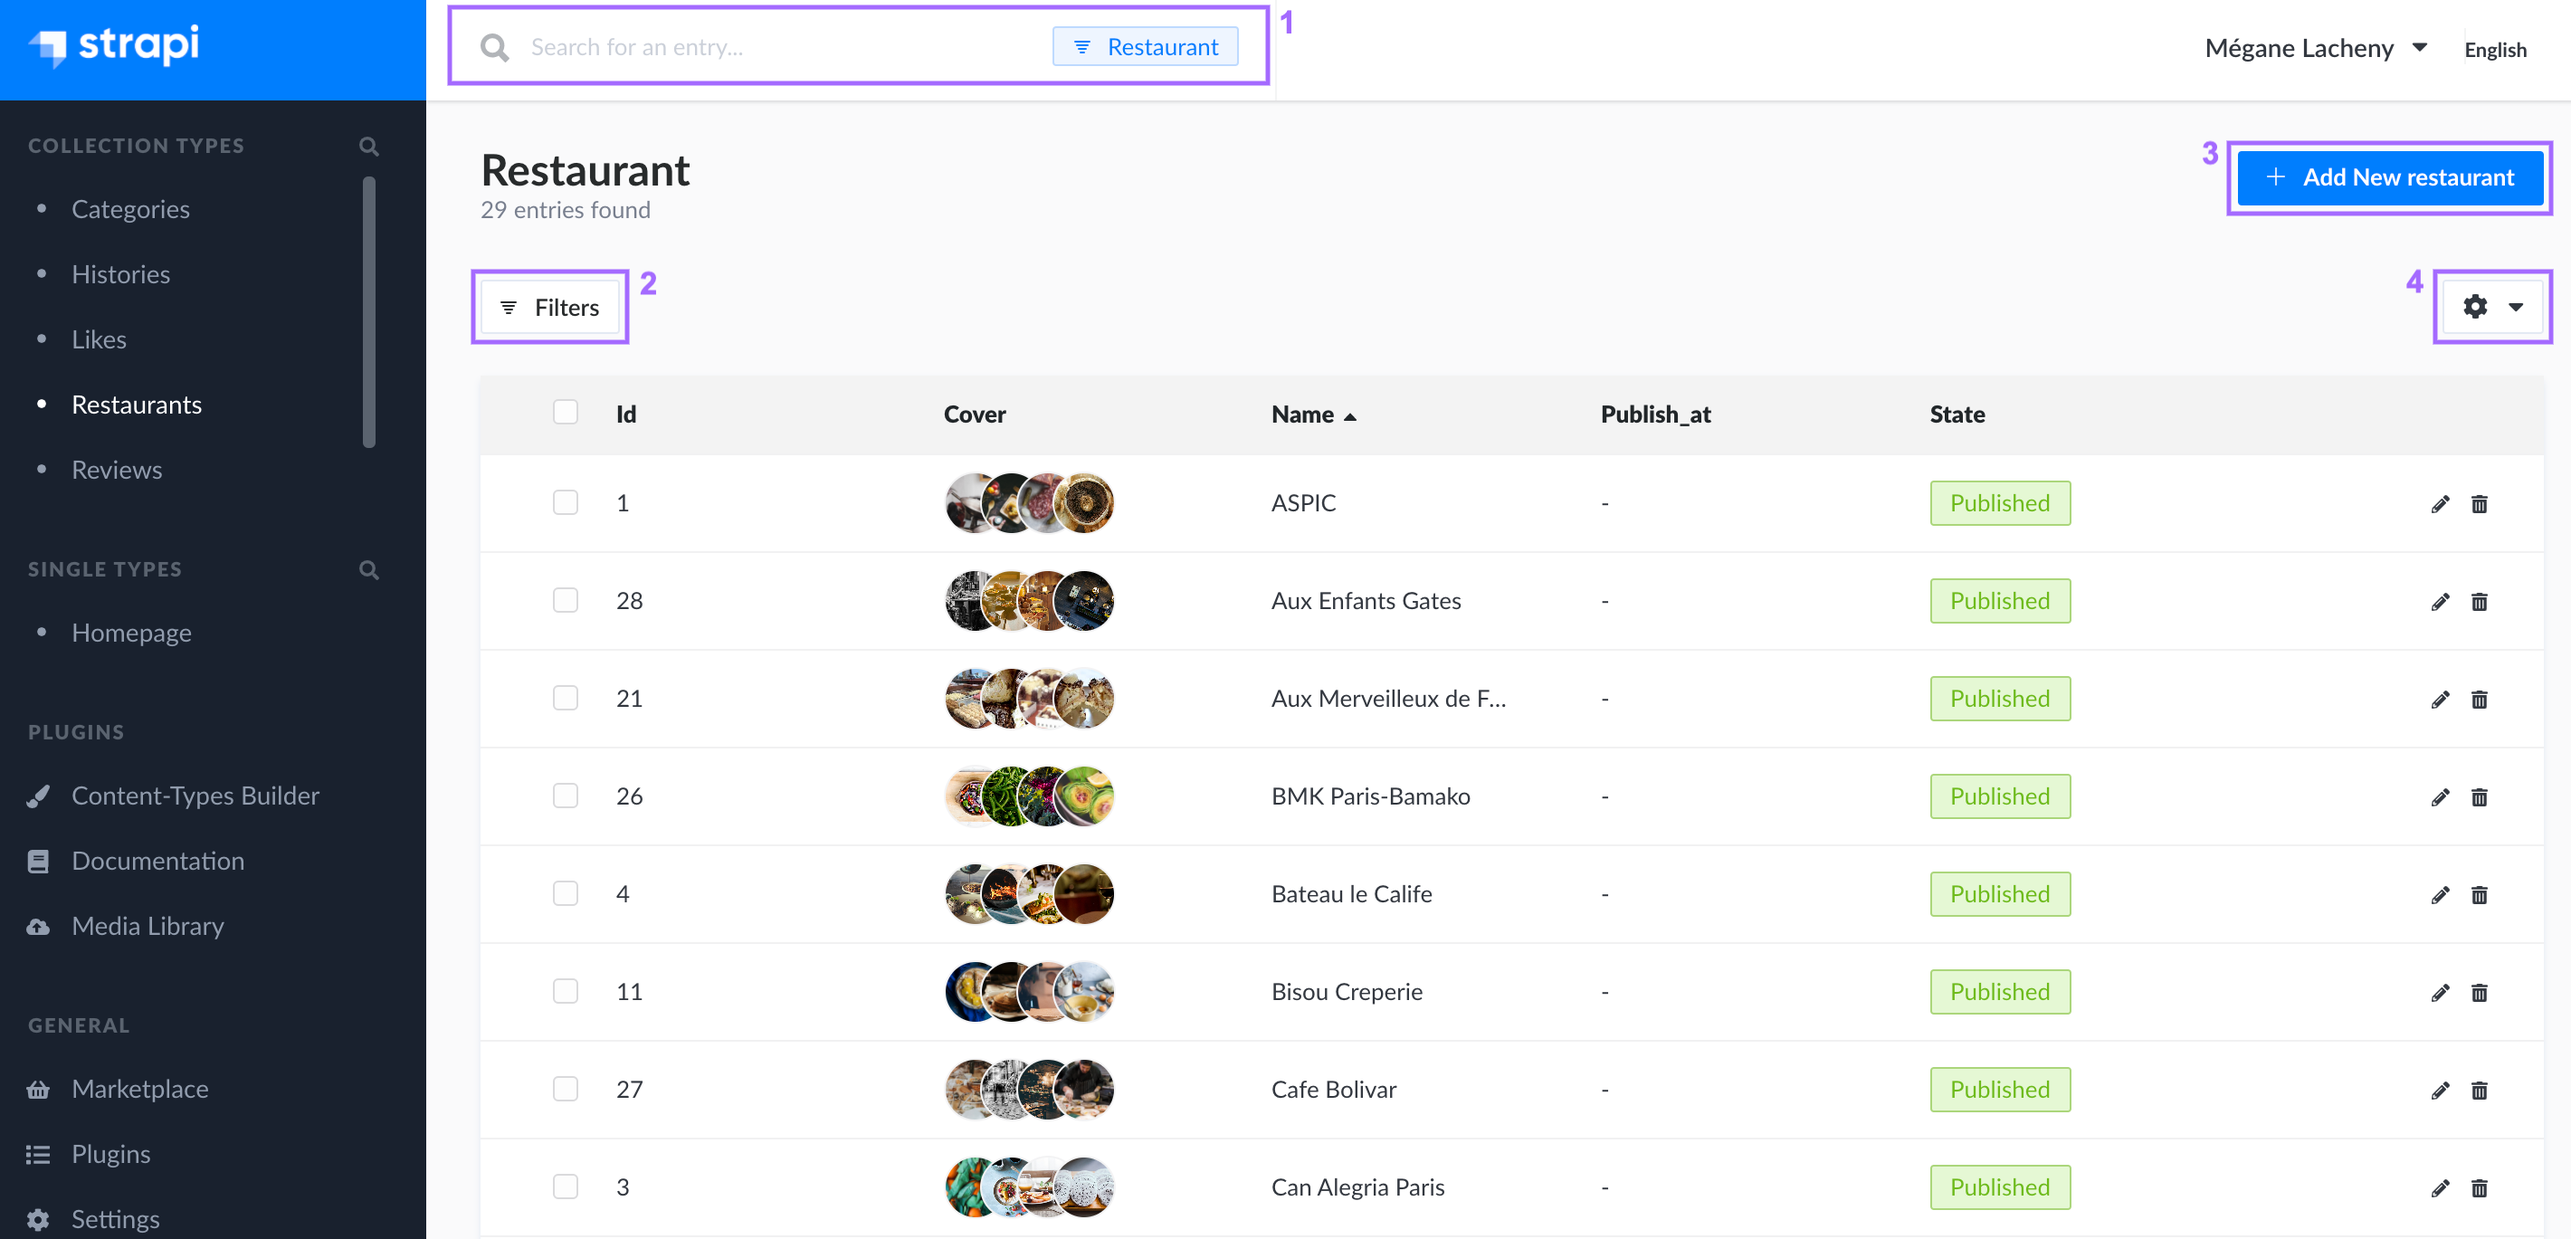
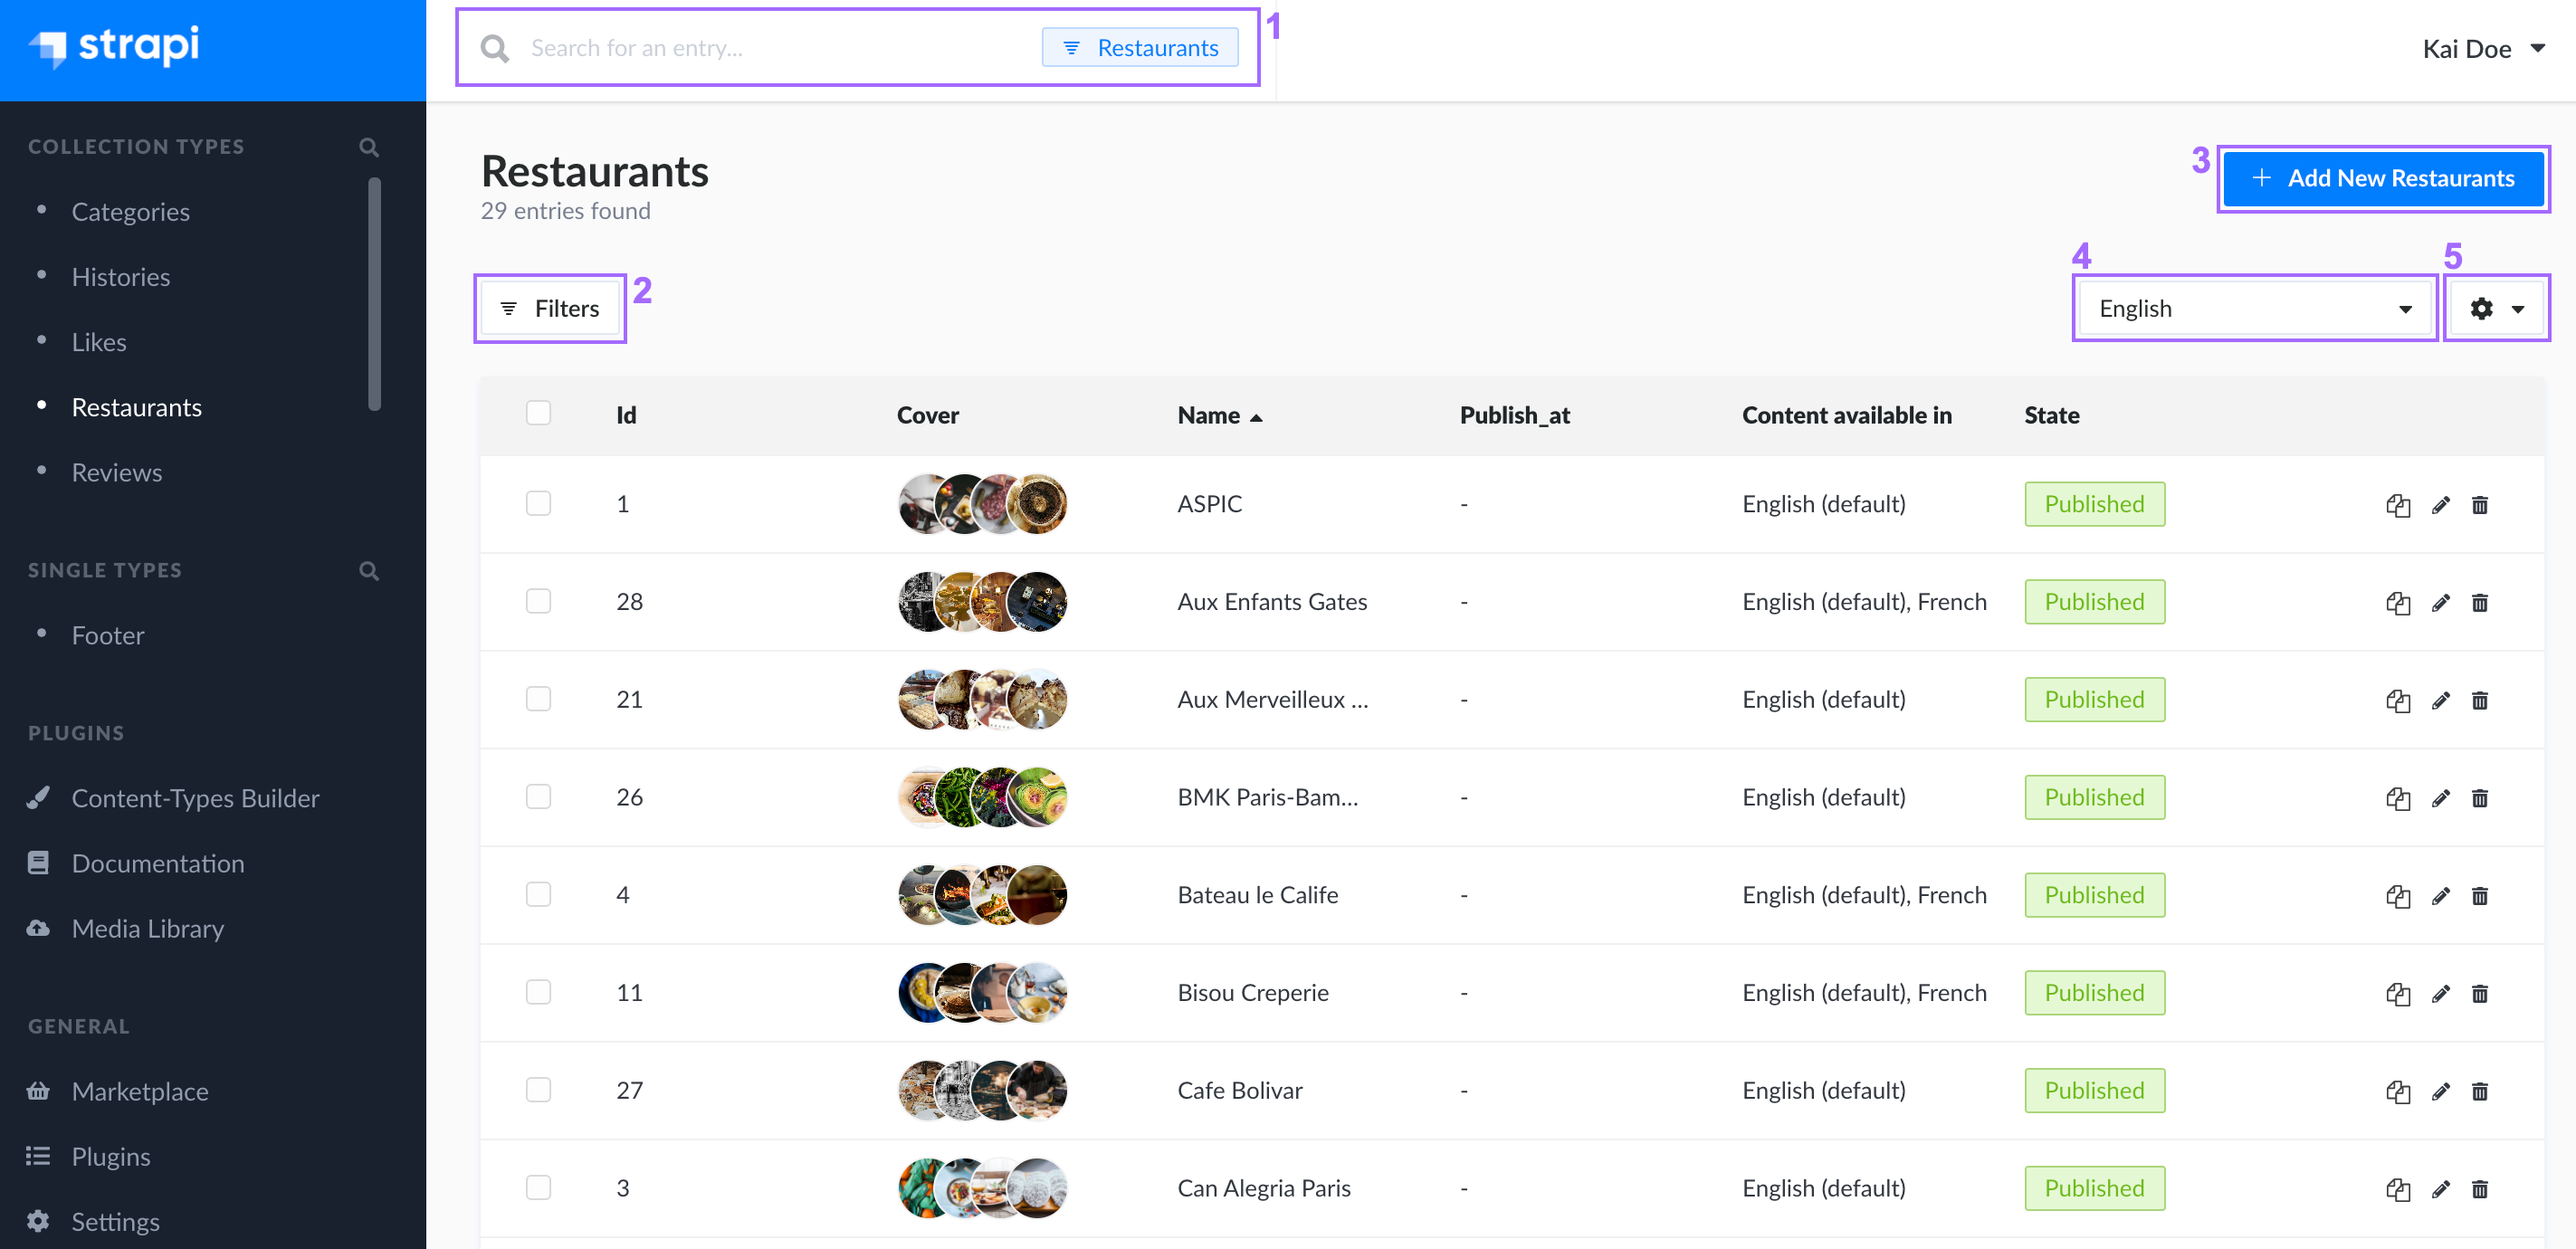
Update and add screenshots for i18n plugin

diff --git a/docs/user-docs/latest/settings/managing-global-settings.md b/docs/user-docs/latest/settings/managing-global-settings.md
@@ -27,6 +27,8 @@ To configure the SSO feature settings:
 
 The [Internationalization plugin](/user-docs/latest/plugins/strapi-plugins.md#internationalization-plugin) allows to manage content in different languages, called "locales". Once the Internationalization plugin is installed in a Strapi application (see [Installing plugins via the Marketplace](../plugins/installing-plugins-via-marketplace.md)), administrators can manage locales from the *Global settings > Internationalization* sub-section of the settings interface.
 
+![i18n settings](../assets/settings/settings-i18n.png)
+
 The *Internationalization* settings sub-section displays a table listing all locales available for the Strapi application. By default, only the English locale is configured and set as the default locale. 
 
 For each locale, the table displays the default ISO code of the locale, its optional display name and indicates if the locale is set as the default one. From the table, administrators can also:

diff --git a/docs/user-docs/latest/content-manager/translating-content.md b/docs/user-docs/latest/content-manager/translating-content.md
@@ -7,6 +7,8 @@ description: Instructions to translate content in various locales with i18n plug
 
 With the [Internationalization plugin](/user-docs/latest/plugins/strapi-plugins.md#internationalization-plugin) installed, it is possible to manage content in more than one language, called "locale". To manage content in a specific locale, the latter must be added beforehand through the Internationalization settings (see [Configuring Internationalization locales](../settings/managing-global-settings.md#configuring-internationalization-locales)).
 
+![Edit view of a localizable content-type](../assets/content-manager/content-manager_translate.png)
+
 In the Content Manager, when the Internationalization plugin is installed, some options are added to the edit view:
 
 - an Internationalization box, displayed in the right side of the interface, from where it is possible to switch locales

diff --git a/docs/user-docs/latest/plugins/installing-plugins-via-marketplace.md b/docs/user-docs/latest/plugins/installing-plugins-via-marketplace.md
@@ -11,6 +11,8 @@ The Marketplace is a section of the admin panel that lists all plugins that can 
 Plugins can also be installed via the Command Line Interface (see [Developer Documentation](/developer-docs/latest/developer-resources/cli/CLI.md#strapi-install)).
 :::
 
+![Interface of the Marketplace](../assets/plugins/marketplace.png)
+
 The Marketplace displays each available plugin in a box, which contains:
 - the name of the plugin,
 - the description of the plugin,
